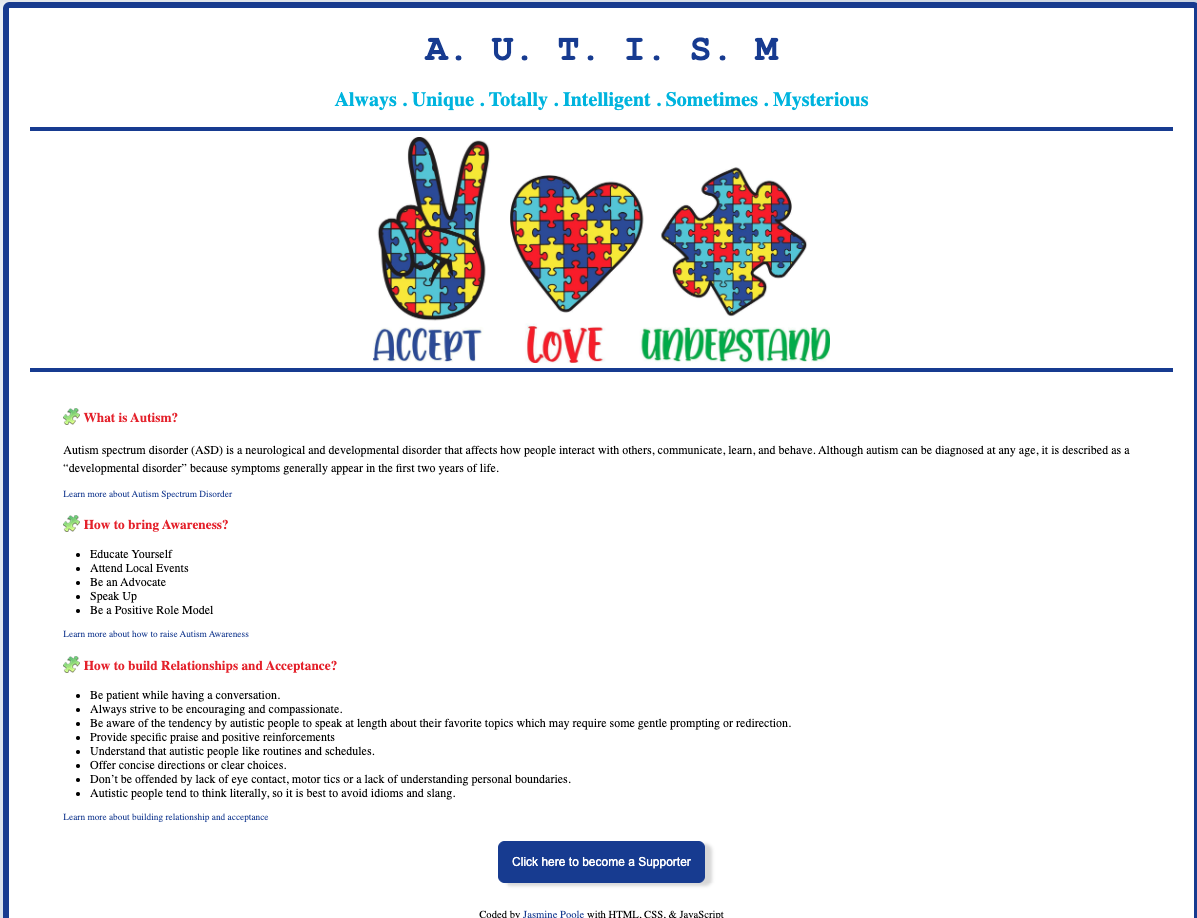
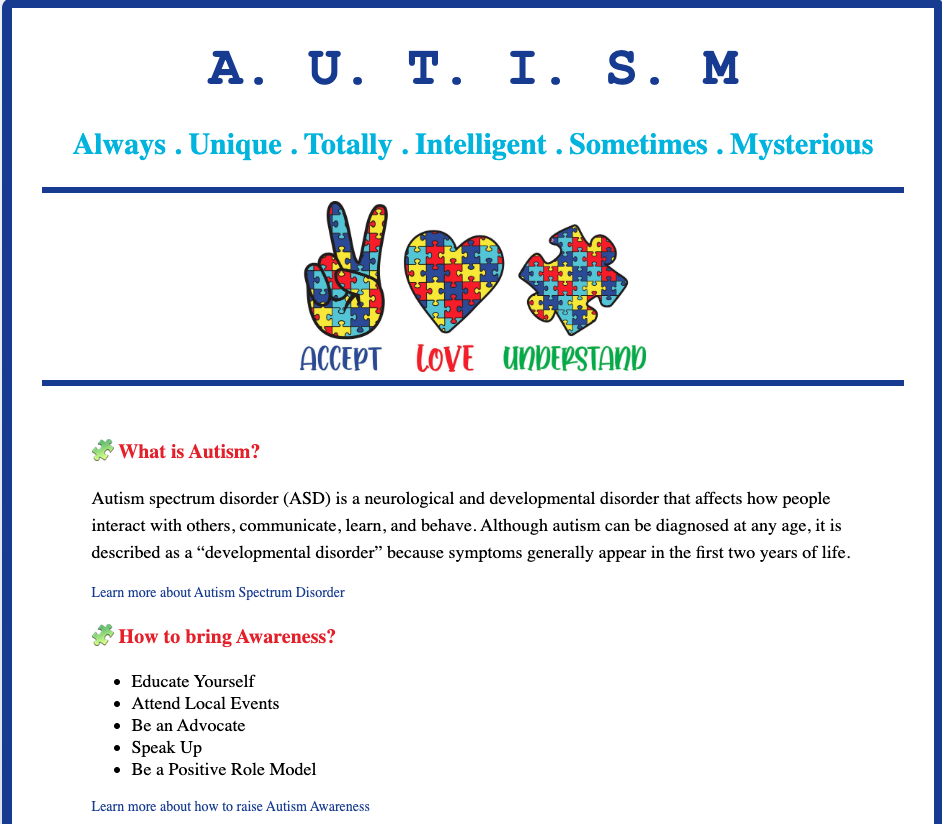
Updated images

Changed region(s): [[0.0, 0.0, 1.0, 1.0], [0.0924, 0.9102, 0.6157, 1.0], [0.431, 0.7585, 0.6465, 0.8192]]

diff --git a/index.html b/index.html
@@ -69,7 +69,7 @@
       <div class="row">
         <div class="col-sm-6">
           <img
-            src="/images/yoga.png"
+            src="/images/autism.png"
             class="img-fluid rounded d-none d-sm-block"
           />
         </div>
@@ -83,13 +83,13 @@
             to create user interaction.
           </p>
           <div class="mt-5">
-            <a href="#" class="primary-link project-link">Launch Yoga App</a>
+            <a href="#" class="primary-link project-link">Launch Autism Landing Page</a>
           </div>
         </div>
       </div>
       <div class="row mt-5">
         <div class="col-sm-6">
-          <h2 class="mb-3">Weather app</h2>
+          <h2 class="mb-3">Weather App</h2>
           <p>
             Lorem ipsum dolor sit amet consectetur adipisicing elit. Perferendis
             quia, dignissimos nam ratione veniam quibusdam porro omnis quam vel
@@ -103,14 +103,6 @@
         <div class="col-sm-6">
           <img
             src="/images/weather.png"
-            class="img-fluid rounded d-none d-sm-block"
-          />
-        </div>
-      </div>
-      <div class="row mt-5">
-        <div class="col-sm-6">
-          <img
-            src="/images/yogurt.png"
             class="img-fluid rounded d-none d-sm-block"
           />
         </div>
